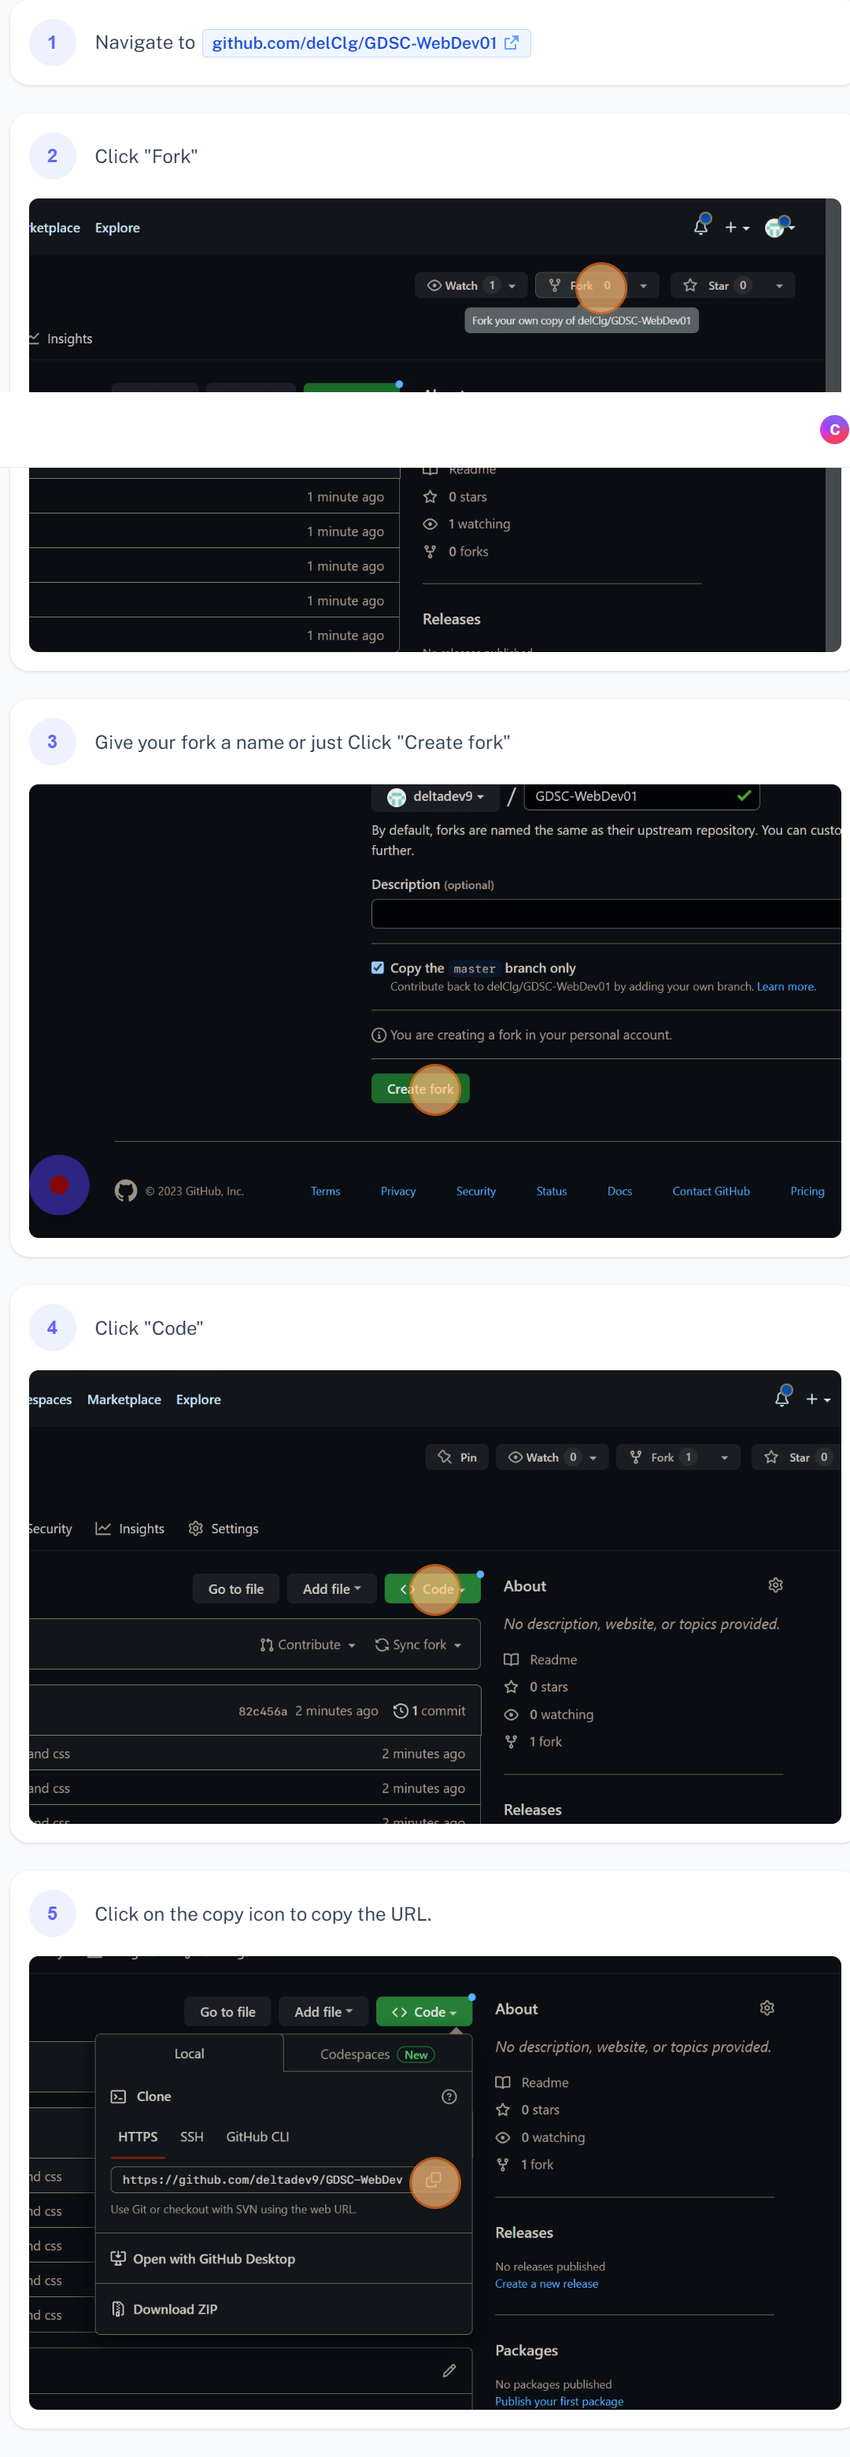
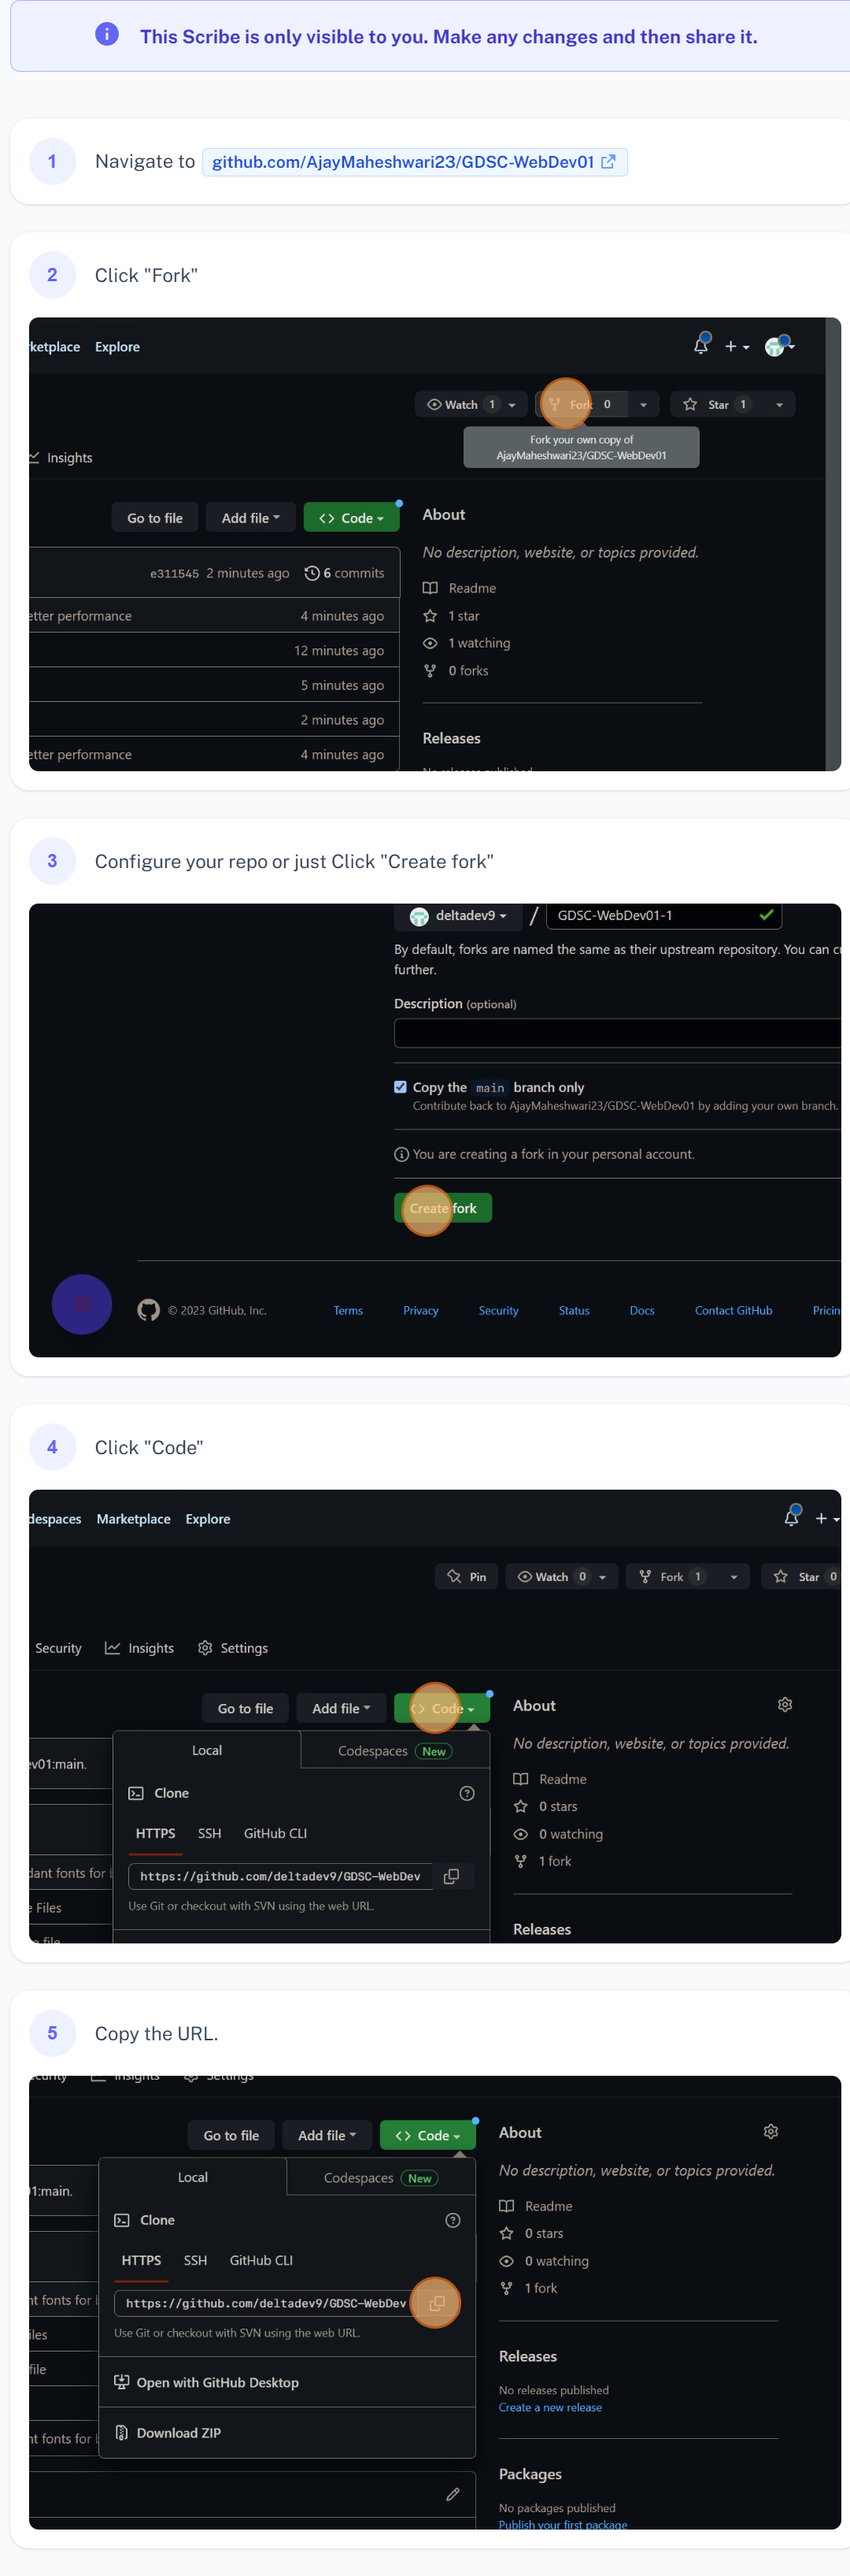
Updated readme with image

diff --git a/README.md b/README.md
@@ -2,11 +2,17 @@
 
 ## How to get started
 
-- [Fork](https://docs.github.com/en/get-started/quickstart/fork-a-repo) the repo
+### 1. [Fork](https://docs.github.com/en/get-started/quickstart/fork-a-repo) the repo
 
-- [Clone](https://docs.github.com/en/repositories/creating-and-managing-repositories/cloning-a-repository) your fork locally
+![GitHub workflow to create a fork](public/images/GitHub_workflow.png)
 
-- Start coding!
+### 2. [Clone](https://docs.github.com/en/repositories/creating-and-managing-repositories/cloning-a-repository) your fork locally
+
+```bash
+git clone <remote repo URL (ends with .git)>
+```
+
+### 3. Start coding!
 
 ## For further reading
 
